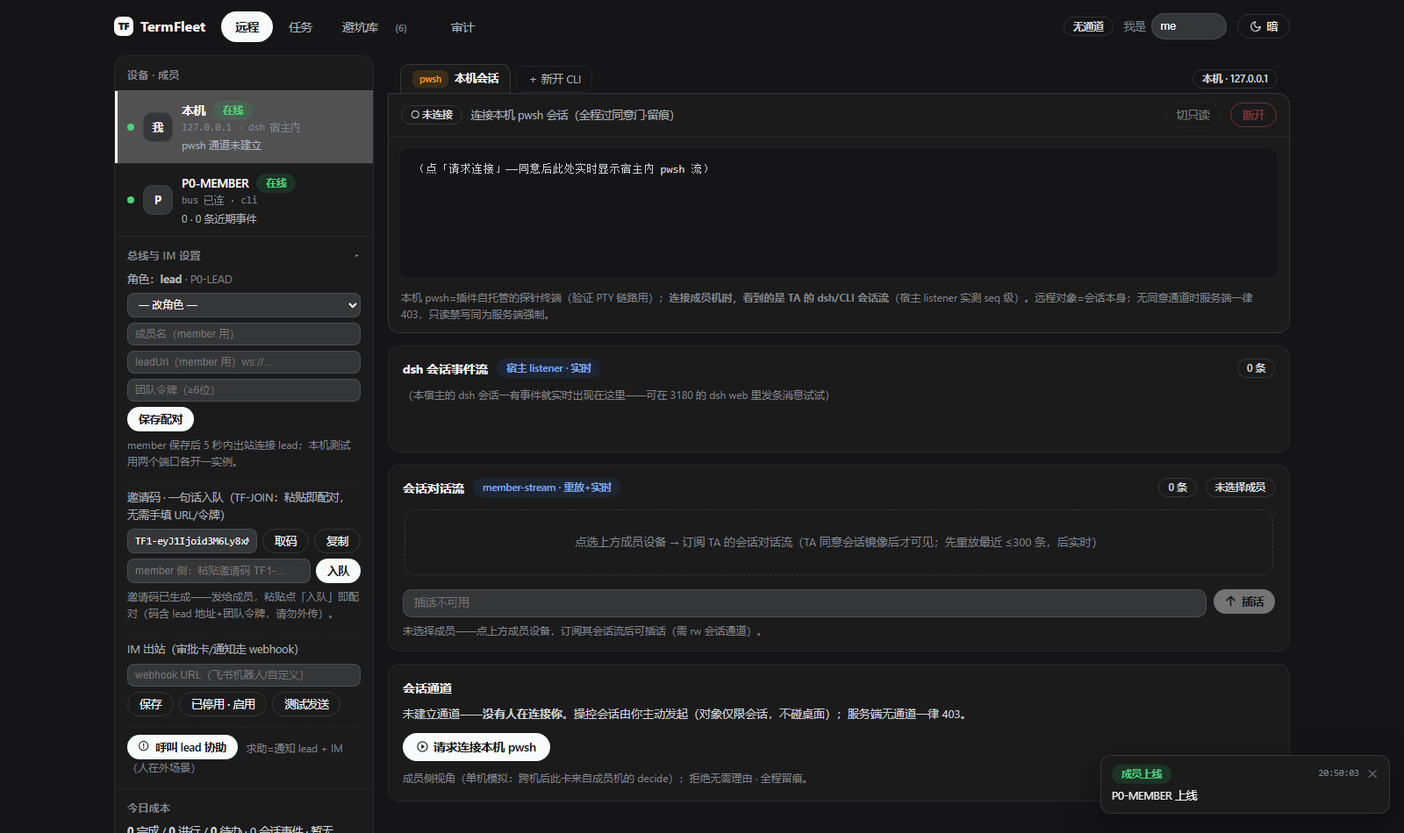
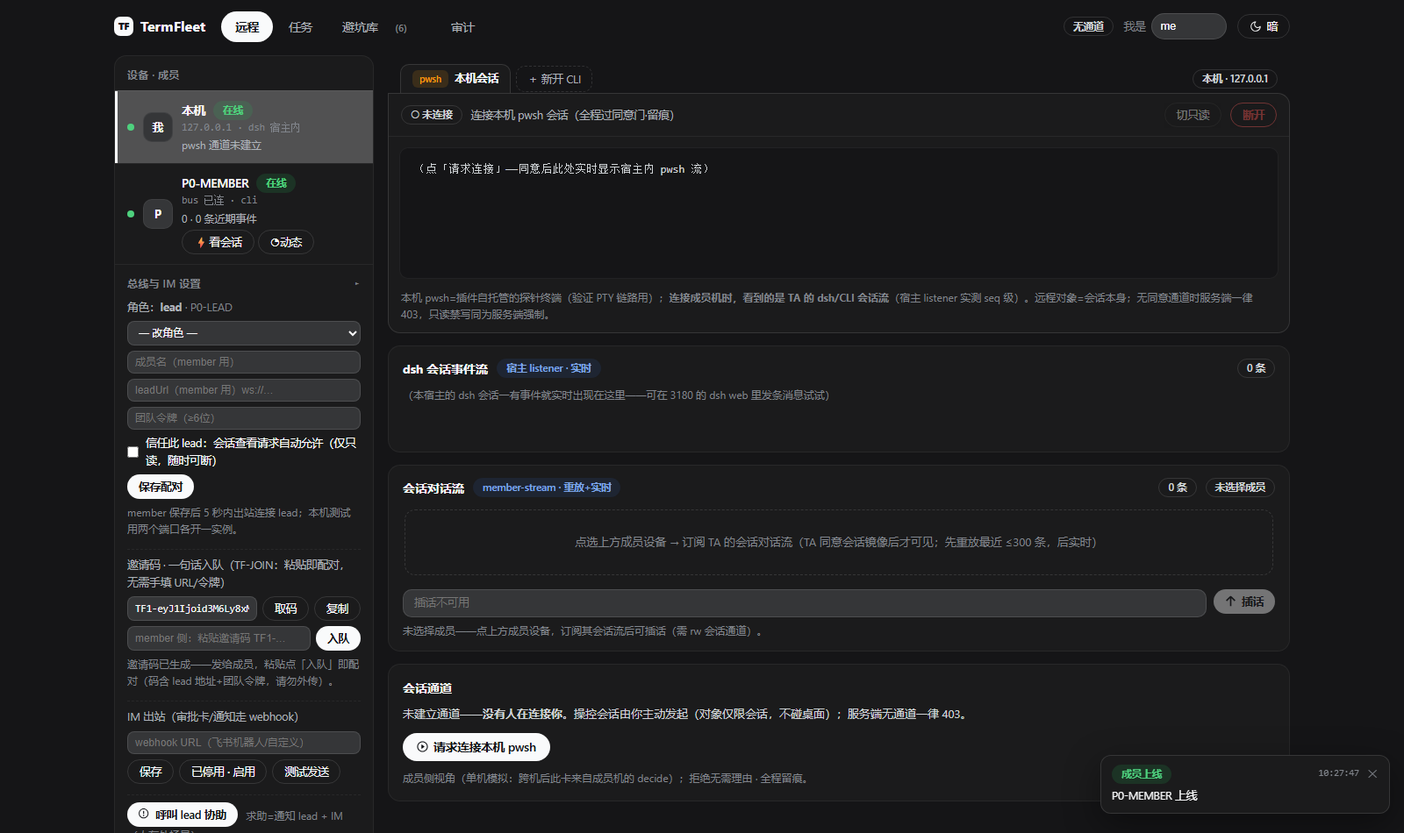
P1#6 快捷操作面落地(契约I)+P1收官: 信任快捷通道=成员面板信任开关(pairing.json持久化,仅只读自动允许随时可断)+lead成员卡⚡看会话一键请求(auto=ro随consent落库透传)+成员侧三重门(auto=ro×信任开×仅sess)自动decide+审计留痕+IM告知; 安全边界=auto只认ro/仅sess/rw接管永远手动点头; 一键动态=fleet?r=深度参数+成员卡◔动态弹层(近20条事件/状态/推送); 独立复审4条全处置(F1中:requestRemote白名单丢auto致成员面板死代码→落库+S13回归锁;F2清理空操作;F3 Esc列表;F4 a

Changed region(s): [[0.0938, 0.2747, 0.2812, 1.0], [0.0938, 0.2137, 0.125, 0.2747]]

diff --git a/lib/app.html b/lib/app.html
@@ -273,6 +273,7 @@ body[data-light] .term{background:var(--n1000)}
           <input id="pairName2" placeholder="成员名（member 用）" style="background:var(--card2);border:1px solid var(--border2);border-radius:8px;color:var(--label1);padding:5px 8px;font-size:12px">
           <input id="pairUrl" placeholder="leadUrl（member 用）ws://…" style="background:var(--card2);border:1px solid var(--border2);border-radius:8px;color:var(--label1);padding:5px 8px;font-size:12px">
           <input id="pairTok" placeholder="团队令牌（≥6位）" style="background:var(--card2);border:1px solid var(--border2);border-radius:8px;color:var(--label1);padding:5px 8px;font-size:12px">
+          <label style="display:flex;gap:8px;align-items:center"><input type="checkbox" id="trustTgl" style="width:auto"> 信任此 lead：会话查看请求自动允许（仅只读，随时可断）</label>
           <button class="btn sm" id="pairSave" style="justify-self:start">保存配对</button>
           <div class="note" style="margin:0">member 保存后 5 秒内出站连接 lead；本机测试用两个端口各开一实例。</div>
           <div style="border-top:1px dashed var(--border);margin-top:8px;padding-top:8px;display:grid;gap:6px">
@@ -492,6 +493,13 @@ body[data-light] .term{background:var(--n1000)}
   <div class="acts"><button class="btn ghost" onclick="document.getElementById('replayMask').classList.remove('on')">关闭</button></div>
 </div></div>
 
+<!-- 最近动态（一键查看成员近期会话事件） -->
+<div class="mask" id="recentMask"><div class="modal">
+  <h4 id="recentTitle">最近动态</h4>
+  <div id="recentBody" style="max-height:420px;overflow-y:auto"></div>
+  <div class="acts"><button class="btn ghost" onclick="document.getElementById('recentMask').classList.remove('on')">关闭</button></div>
+</div></div>
+
 <!-- 新建任务 -->
 <div class="mask" id="formMask"><div class="modal">
   <h4>新建任务</h4>
@@ -665,10 +673,12 @@ function pollFleet(){
     var box=document.getElementById('memberDevs');
     if(!FLEET.members.length){ box.innerHTML='<div class="dev" style="opacity:.5"><span class="dot off"></span><div class="av">?</div><div><div class="nm">团队成员设备</div><div class="sessn">暂无成员在线（member 配对后 5s 内出现）</div></div></div>'; return; }
     box.innerHTML=FLEET.members.map(function(m){
-      return '<div class="dev '+(selMember===m.name?'sel':'')+'" data-member="'+esc(m.name)+'"><span class="dot on"></span><div class="av">'+esc(m.name.slice(0,1))+'</div><div style="min-width:0"><div class="nm">'+esc(m.name)+' <span class="pill g" style="margin-left:2px">在线</span></div><div class="mach" style="font-family:SF Mono,Consolas,monospace;font-size:11.5px;color:var(--caption)">bus 已连 · '+esc((m.sessions||[]).map(function(s){return s.tag}).join(','))+'</div><div class="sessn">'+(m.recentEvents||[]).length+(m.summary?(' · <b style="color:var(--label2)">'+m.summary.state+'</b> '+esc((m.summary.line||'').slice(0,34))):(' · '+(m.recentEvents||[]).length+' 条近期事件'))+(m.lastSos?' <span class="pill r">SOS '+(m.lastSos.msg||'').slice(0,10)+'</span>':'')+(m.lastProgress?' <span class="pill a" title="进度推送 '+esc((m.lastProgress.line||'').slice(0,40))+'">'+esc(m.lastProgress.label||m.lastProgress.kind)+'</span>':'')+'</div></div></div>';
+      return '<div class="dev '+(selMember===m.name?'sel':'')+'" data-member="'+esc(m.name)+'"><span class="dot on"></span><div class="av">'+esc(m.name.slice(0,1))+'</div><div style="min-width:0"><div class="nm">'+esc(m.name)+' <span class="pill g" style="margin-left:2px">在线</span></div><div class="mach" style="font-family:SF Mono,Consolas,monospace;font-size:11.5px;color:var(--caption)">bus 已连 · '+esc((m.sessions||[]).map(function(s){return s.tag}).join(','))+'</div><div class="sessn">'+(m.recentEvents||[]).length+(m.summary?(' · <b style="color:var(--label2)">'+m.summary.state+'</b> '+esc((m.summary.line||'').slice(0,34))):(' · '+(m.recentEvents||[]).length+' 条近期事件'))+(m.lastSos?' <span class="pill r">SOS '+(m.lastSos.msg||'').slice(0,10)+'</span>':'')+(m.lastProgress?' <span class="pill a" title="进度推送 '+esc((m.lastProgress.line||'').slice(0,40))+'">'+esc(m.lastProgress.label||m.lastProgress.kind)+'</span>':'')+'</div><div style="display:flex;gap:4px;margin:4px 0 0;flex:none"><button class="btn ghost sm" data-qview="'+esc(m.name)+'" title="一键请求查看 TA 的会话——TA 开了信任则自动允许（仅只读）">⚡看会话</button><button class="btn ghost sm" data-qrecent="'+esc(m.name)+'" title="看 TA 最近 20 条会话动态">◔动态</button></div></div>';
     }).join('');
     box.querySelectorAll('[data-member]').forEach(function(el){ el.onclick=function(){ selMember=el.getAttribute('data-member');
       document.getElementById('sessMember').style.display='flex'; document.getElementById('sessMemberName').textContent=selMember+' · pwsh'; sfOpen(selMember); pollFleet(); toast('已选中成员机：'+selMember+'（会话对话流订阅中…）'); }; });
+    box.querySelectorAll('[data-qview]').forEach(function(b){ b.onclick=function(ev){ ev.stopPropagation(); qview(b.getAttribute('data-qview')); }; });
+    box.querySelectorAll('[data-qrecent]').forEach(function(b){ b.onclick=function(ev){ ev.stopPropagation(); qrecent(b.getAttribute('data-qrecent')); }; });
     // 远端通道 active：拉成员 pty 尾流显示
     if(CH && CH.status==='active' && CH.target && CH.target.indexOf('member:')===0){
       var m2=FLEET.members.filter(function(x){return x.name===CH.target.slice(7)})[0];
@@ -678,7 +688,8 @@ function pollFleet(){
     }
   }).catch(function(){});
   api('/dsh-termfleet/pairing').then(function(d){ FLEET.role=d.pairing&&d.pairing.role||'?'; FLEET.name=d.pairing&&d.pairing.name||'';
-    document.getElementById('pairRole').textContent=FLEET.role; document.getElementById('pairName').textContent=FLEET.name?('· '+FLEET.name):''; }).catch(function(){});
+    document.getElementById('pairRole').textContent=FLEET.role; document.getElementById('pairName').textContent=FLEET.name?('· '+FLEET.name):'';
+    var tt=document.getElementById('trustTgl'); if(tt) tt.checked=!!(d.pairing&&d.pairing.trust); }).catch(function(){});
   // pending 轮询：远端成员答复 / 成员页收到 lead 请求 → 采纳
   if(CH && CH.status==='pending'){
     api('/dsh-termfleet/consent/list').then(function(d){
@@ -688,8 +699,9 @@ function pollFleet(){
     }).catch(function(){});
   } else if(!CH && FLEET.role==='member'){
     api('/dsh-termfleet/consent/list').then(function(d){
-      var c=(d.consents||[]).filter(function(x){return x.remote&&x.status==='pending'})[0];
-      if(c){ CH=c; CH._mine=false; renderChannel(); }
+      // 采纳远端 pending；信任自动允许的（active+auto）也采纳并提示（成员零操作闭环的可见性）
+      var c=(d.consents||[]).filter(function(x){return x.remote&&(x.status==='pending'||(x.status==='active'&&x.auto))})[0];
+      if(c){ CH=c; CH._mine=false; renderChannel(); if(c.status==='active'&&c.auto) toast('已按信任设置自动允许（只读）——lead 正在查看，随时可断开'); }
     }).catch(function(){});
   }
   sfGate();
@@ -698,6 +710,29 @@ function requestChannel(){
   var target = selMember ? ('member:'+selMember) : 'pwsh7·本机';
   api('/dsh-termfleet/consent/request',{type:'pty',target:target}).then(function(d){
     if(d.ok){ CH=d.consent; CH._mine=true; renderChannel(); toast('已发起连接请求（入审计）'); }});
+}
+/* 契约 I：快捷操作（愿望机：一键「请求+信任自动允许」/一键最近动态） */
+function qview(name){
+  api('/dsh-termfleet/consent/request',{type:'sess',target:'member:'+name,auto:'ro'}).then(function(d){
+    if(d.ok){ CH=d.consent; CH._mine=true; renderChannel();
+      toast('已一键发起查看——'+name+' 开了信任会自动允许（只读），否则等 TA 确认'); }
+    else toast('请求失败：'+((d&&d.error)||'?'));
+  });
+}
+function qrecent(name){
+  api('/dsh-termfleet/fleet?r=20').then(function(d){
+    var m=(d.members||[]).filter(function(x){return x.name===name})[0];
+    if(!m){ toast(name+' 不在线'); return; }
+    document.getElementById('recentTitle').textContent=name+' · 最近动态';
+    var st=m.summary?('状态 <b>'+esc(m.summary.state)+'</b> · '+esc(m.summary.line||'')):'暂无状态';
+    var body='<div class="note" style="margin-bottom:8px">'+st+(m.lastProgress?(' · 最近推送 <b>'+esc(m.lastProgress.label||m.lastProgress.kind)+'</b>'):(''))+(m.lastFollowupAck&&m.lastFollowupAck.ok?' · 插话已送达':'')+'</div>'
+      +'<div style="max-height:360px;overflow-y:auto">'
+      +((m.recentEvents||[]).length?m.recentEvents.slice().reverse().map(function(e){
+          return '<div class="evrow"><span class="ts">'+(e.ts?new Date(e.ts).toLocaleTimeString():'')+'</span><span class="ty mono">'+esc(e.type||'?')+'</span><span>'+esc(String(e.text||e.brief||'').slice(0,80))+'</span></div>';
+        }).join(''):'<div class="ph">暂无近期事件</div>')+'</div>';
+    document.getElementById('recentBody').innerHTML=body;
+    document.getElementById('recentMask').classList.add('on');
+  }).catch(function(){ toast('拉取失败'); });
 }
 function decide(dec){
   // 先取「是否 lead 侧发起」——服务端回包会整体替换 CH，本地 _mine 标记必须捕获后回填
@@ -1343,6 +1378,7 @@ document.getElementById('pairSave').onclick=function(){
   var n=document.getElementById('pairName2').value.trim(); if(n)body.name=n;
   var u=document.getElementById('pairUrl').value.trim(); if(u)body.leadUrl=u;
   var t=document.getElementById('pairTok').value.trim(); if(t)body.token=t;
+  body.trust=document.getElementById('trustTgl').checked; // 信任开关总是随保存提交（取消勾选=关闭信任）
   if(!Object.keys(body).length){ toast('未填任何项'); return; }
   api('/dsh-termfleet/pairing',body).then(function(d){ if(d.ok){ toast('配对已保存：'+d.pairing.role+(d.pairing.name?' · '+d.pairing.name:'')+'（member 5s 内连上）'); pollFleet(); } });
 };
@@ -1411,7 +1447,7 @@ api('/dsh-termfleet/consent/list').then(function(d){ var c=(d.consents||[]).find
 // 键盘快捷键：Esc=关弹窗/抽屉, 1-4=切导航, /=聚焦搜索
 document.addEventListener('keydown', function(ev) {
   if (ev.key === 'Escape') {
-    ['replayMask','formMask','lessonMask','consentMask'].forEach(function(id) { document.getElementById(id).classList.remove('on') });
+    ['replayMask','formMask','lessonMask','consentMask','recentMask'].forEach(function(id) { document.getElementById(id).classList.remove('on') });
     closeDrawer();
     document.getElementById('statMenu').classList.remove('on');
   }

diff --git a/lib/index.js b/lib/index.js
@@ -523,13 +523,15 @@ export function apply(ctx, _config) {
       async requestRemote(c) {
         const l = await ensure()
         const exist = l.find((x) => x.id === c.id)
-        if (exist) { if (exist.status === 'pending') { exist.remote = true; save() } return exist }
-        const n = { id: c.id, type: c.type, target: c.target, requester: c.requester, mode: null, status: 'pending', createdAt: Date.now(), expireAt: null, decidedBy: null, endedBy: null, remote: true }
+        if (exist) { if (exist.status === 'pending') { exist.remote = true; if (c.auto) exist.auto = c.auto; save() } return exist }
+        // auto 随记录落库（契约 I：成员面板靠它渲染信任自动允许的「随时可断」卡与提示）
+        const n = { id: c.id, type: c.type, target: c.target, requester: c.requester, mode: null, status: 'pending', createdAt: Date.now(), expireAt: null, decidedBy: null, endedBy: null, remote: true, auto: c.auto || undefined }
         l.unshift(n); save(); return n
       },
-      async request(type, target, requester) {
+      async request(type, target, requester, extra) {
         const l = await ensure()
-        const c = { id: 'C-' + Date.now().toString(36) + Math.random().toString(36).slice(2, 5), type, target, requester, mode: null, status: 'pending', createdAt: Date.now(), expireAt: null, decidedBy: null, endedBy: null }
+        // extra（如 auto）随创建落库——路由层事后改内存对象会在重启后丢失标记
+        const c = { id: 'C-' + Date.now().toString(36) + Math.random().toString(36).slice(2, 5), type, target, requester, mode: null, status: 'pending', createdAt: Date.now(), expireAt: null, decidedBy: null, endedBy: null, ...(extra && typeof extra === 'object' ? extra : {}) }
         l.unshift(c); save(); return c
       },
       async decide(id, decision, decider) {
@@ -735,12 +737,13 @@ export function apply(ctx, _config) {
       }
       lead.wss.handleUpgrade(req, socket, head, (ws) => lead.wss.emit('connection', ws))
     }
-    const leadFleet = async () => {
+    const leadFleet = async (rN) => {
       await loadCfg()
+      const rMax = Math.min(50, Math.max(1, parseInt(rN, 10) || 8))
       const out = []
       for (const [name, c] of lead.conns) {
         out.push({ name, online: true, lastSeen: c.lastSeen, sessions: c.sessions, msgCount: c.msgCount || 0, lastSos: c.lastSos || null, summary: c.summary || null, lastProgress: c.lastProgress || null,
-          recentEvents: c.events.slice(-8), ptyTail: c.ptyOut.slice(-30).map((x) => x.d).join('').slice(-600), lastFollowupAck: c.lastFollowupAck || null })
+          recentEvents: c.events.slice(-rMax), ptyTail: c.ptyOut.slice(-30).map((x) => x.d).join('').slice(-600), lastFollowupAck: c.lastFollowupAck || null })
       }
       return out
     }
@@ -786,10 +789,21 @@ export function apply(ctx, _config) {
             let m = null; try { m = JSON.parse(String(raw)) } catch { return }
             if (m.t === 'consent-request') {
               // lead 下发的请求 → 本机建 pending（同 id）；本机页面轮询即可见+可答复
-              consentStore.requestRemote(m.consent).then(() => {
+              // 契约 I：信任快捷通道——成员开了信任(cfg.trust)且请求带 auto='ro'（仅 sess）→ 自动允许只读，免手动确认
+              void (async () => {
+                await consentStore.requestRemote(m.consent)
                 auditStore.add(m.consent.requester, '请求连接（来自 lead）', m.consent.target || '')
+                if (m.consent.auto === 'ro' && cfg.trust === true && m.consent.type === 'sess') {
+                  const c2 = await consentStore.decide(m.consent.id, 'readonly', (cfg.name || '成员') + '@成员机·信任自动')
+                  if (c2) {
+                    auditStore.add(cfg.name || '成员', '信任模式自动允许(只读)', m.consent.id + '（随时可断开）')
+                    imBridge.send('TermFleet 信任通道', 'lead 的会话查看请求已按信任设置自动允许（仅只读，随时可断开）')
+                    if (member.connected && member.ws) send(member.ws, { t: 'consent-decided', id: m.consent.id, decision: 'readonly' })
+                    return
+                  }
+                }
                 imBridge.send('TermFleet 审批卡', m.consent.requester + ' 请求连接你的会话（' + (m.consent.target || '') + '，30 分钟限时）。id=' + m.consent.id + '。答复：回复\"允许/只读/拒绝\"（经 IM 桥回调），或打开成员页 ' + (imBridge.cfg && imBridge.cfg.pageUrl ? imBridge.cfg.pageUrl : 'http://127.0.0.1:3181/dsh-termfleet/app'))
-              })
+              })().catch(() => { /* 单帧失败不拖垮总线 */ })
             } else if (m.t === 'pty-open' || m.t === 'pty-write' || m.t === 'pty-kill') {
               // 双端验证：成员机只在本机存在 active 远端 rw 通道时执行
               const ch = await consentStore.activeOf('pty')
@@ -1424,7 +1438,8 @@ ctx.inject(['webServer'], (host) => {
           handler: async (req, res) => {
             if (guard(req, res)) return
             if (req.method !== 'GET') { res.writeHead(405, { allow: 'GET' }); res.end(); return }
-            json(res, 200, { ok: true, members: await busLink.leadFleet() })
+            const u = new URL(req.url, 'http://localhost')
+            json(res, 200, { ok: true, members: await busLink.leadFleet(u.searchParams.get('r')) })
           },
         }),
         host.webServer.register({
@@ -1442,6 +1457,8 @@ ctx.inject(['webServer'], (host) => {
               if (typeof body.name === 'string') cfg.name = body.name.slice(0, 30)
               if (typeof body.leadUrl === 'string') cfg.leadUrl = body.leadUrl.slice(0, 200)
               if (typeof body.token === 'string' && body.token.length >= 6) cfg.token = body.token.slice(0, 64)
+              // 契约 I：信任开关——开启后 lead 的会话查看请求（auto='ro'）自动允许（仅只读），成员随时可断
+              if (typeof body.trust === 'boolean') cfg.trust = body.trust
               busLink.saveCfg()
               auditStore.add(who(req), '配对设置', cfg.role + (cfg.name ? ' ' + cfg.name : ''))
               json(res, 200, { ok: true, pairing: cfg })
@@ -1763,10 +1780,11 @@ ctx.inject(['webServer'], (host) => {
             try {
               const body = JSON.parse((await readBody(req)) || '{}')
               const target = String(body.target || '')
-              const c = await consentStore.request(String(body.type || 'pty'), target, who(req))
-              auditStore.add(who(req), '请求连接', c.type + ' → ' + c.target)
-              if (target.startsWith('member:')) busLink.toMember(target.slice(7), { t: 'consent-request', consent: c })
-              emitNotify('consent-request', who(req) + ' 请求连接 ' + c.type + ' → ' + c.target)
+              // 契约 I：信任快捷通道——auto='ro' 表示请求带「信任自动允许」意愿；是否真的免确认由成员侧信任开关决定
+              const c = await consentStore.request(String(body.type || 'pty'), target, who(req), body.auto === 'ro' ? { auto: 'ro' } : null)
+              auditStore.add(who(req), '请求连接', c.type + ' → ' + c.target + (c.auto ? '（一键·信任自动）' : ''))
+              if (target.startsWith('member:')) busLink.toMember(target.slice(7), { t: 'consent-request', consent: { ...c, auto: c.auto || undefined } })
+              emitNotify('consent-request', who(req) + ' 请求连接 ' + c.type + ' → ' + c.target + (c.auto ? '（一键）' : ''))
               json(res, 200, { ok: true, consent: c })
             } catch (e) { json(res, 400, { ok: false, error: String(e).slice(0, 300) }) }
           },

diff --git a/src/index.ts b/src/index.ts
@@ -534,13 +534,15 @@ export function apply(ctx, _config) {
       async requestRemote(c) {
         const l = await ensure()
         const exist = l.find((x) => x.id === c.id)
-        if (exist) { if (exist.status === 'pending') { exist.remote = true; save() } return exist }
-        const n = { id: c.id, type: c.type, target: c.target, requester: c.requester, mode: null, status: 'pending', createdAt: Date.now(), expireAt: null, decidedBy: null, endedBy: null, remote: true }
+        if (exist) { if (exist.status === 'pending') { exist.remote = true; if (c.auto) exist.auto = c.auto; save() } return exist }
+        // auto 随记录落库（契约 I：成员面板靠它渲染信任自动允许的「随时可断」卡与提示）
+        const n = { id: c.id, type: c.type, target: c.target, requester: c.requester, mode: null, status: 'pending', createdAt: Date.now(), expireAt: null, decidedBy: null, endedBy: null, remote: true, auto: c.auto || undefined }
         l.unshift(n); save(); return n
       },
-      async request(type, target, requester) {
+      async request(type, target, requester, extra) {
         const l = await ensure()
-        const c = { id: 'C-' + Date.now().toString(36) + Math.random().toString(36).slice(2, 5), type, target, requester, mode: null, status: 'pending', createdAt: Date.now(), expireAt: null, decidedBy: null, endedBy: null }
+        // extra（如 auto）随创建落库——路由层事后改内存对象会在重启后丢失标记
+        const c = { id: 'C-' + Date.now().toString(36) + Math.random().toString(36).slice(2, 5), type, target, requester, mode: null, status: 'pending', createdAt: Date.now(), expireAt: null, decidedBy: null, endedBy: null, ...(extra && typeof extra === 'object' ? extra : {}) }
         l.unshift(c); save(); return c
       },
       async decide(id, decision, decider) {
@@ -746,12 +748,13 @@ export function apply(ctx, _config) {
       }
       lead.wss.handleUpgrade(req, socket, head, (ws) => lead.wss.emit('connection', ws))
     }
-    const leadFleet = async () => {
+    const leadFleet = async (rN) => {
       await loadCfg()
+      const rMax = Math.min(50, Math.max(1, parseInt(rN, 10) || 8))
       const out = []
       for (const [name, c] of lead.conns) {
         out.push({ name, online: true, lastSeen: c.lastSeen, sessions: c.sessions, msgCount: c.msgCount || 0, lastSos: c.lastSos || null, summary: c.summary || null, lastProgress: c.lastProgress || null,
-          recentEvents: c.events.slice(-8), ptyTail: c.ptyOut.slice(-30).map((x) => x.d).join('').slice(-600), lastFollowupAck: c.lastFollowupAck || null })
+          recentEvents: c.events.slice(-rMax), ptyTail: c.ptyOut.slice(-30).map((x) => x.d).join('').slice(-600), lastFollowupAck: c.lastFollowupAck || null })
       }
       return out
     }
@@ -797,10 +800,21 @@ export function apply(ctx, _config) {
             let m = null; try { m = JSON.parse(String(raw)) } catch { return }
             if (m.t === 'consent-request') {
               // lead 下发的请求 → 本机建 pending（同 id）；本机页面轮询即可见+可答复
-              consentStore.requestRemote(m.consent).then(() => {
+              // 契约 I：信任快捷通道——成员开了信任(cfg.trust)且请求带 auto='ro'（仅 sess）→ 自动允许只读，免手动确认
+              void (async () => {
+                await consentStore.requestRemote(m.consent)
                 auditStore.add(m.consent.requester, '请求连接（来自 lead）', m.consent.target || '')
+                if (m.consent.auto === 'ro' && cfg.trust === true && m.consent.type === 'sess') {
+                  const c2 = await consentStore.decide(m.consent.id, 'readonly', (cfg.name || '成员') + '@成员机·信任自动')
+                  if (c2) {
+                    auditStore.add(cfg.name || '成员', '信任模式自动允许(只读)', m.consent.id + '（随时可断开）')
+                    imBridge.send('TermFleet 信任通道', 'lead 的会话查看请求已按信任设置自动允许（仅只读，随时可断开）')
+                    if (member.connected && member.ws) send(member.ws, { t: 'consent-decided', id: m.consent.id, decision: 'readonly' })
+                    return
+                  }
+                }
                 imBridge.send('TermFleet 审批卡', m.consent.requester + ' 请求连接你的会话（' + (m.consent.target || '') + '，30 分钟限时）。id=' + m.consent.id + '。答复：回复\"允许/只读/拒绝\"（经 IM 桥回调），或打开成员页 ' + (imBridge.cfg && imBridge.cfg.pageUrl ? imBridge.cfg.pageUrl : 'http://127.0.0.1:3181/dsh-termfleet/app'))
-              })
+              })().catch(() => { /* 单帧失败不拖垮总线 */ })
             } else if (m.t === 'pty-open' || m.t === 'pty-write' || m.t === 'pty-kill') {
               // 双端验证：成员机只在本机存在 active 远端 rw 通道时执行
               const ch = await consentStore.activeOf('pty')
@@ -1435,7 +1449,8 @@ ctx.inject(['webServer'], (host) => {
           handler: async (req, res) => {
             if (guard(req, res)) return
             if (req.method !== 'GET') { res.writeHead(405, { allow: 'GET' }); res.end(); return }
-            json(res, 200, { ok: true, members: await busLink.leadFleet() })
+            const u = new URL(req.url, 'http://localhost')
+            json(res, 200, { ok: true, members: await busLink.leadFleet(u.searchParams.get('r')) })
           },
         }),
         host.webServer.register({
@@ -1453,6 +1468,8 @@ ctx.inject(['webServer'], (host) => {
               if (typeof body.name === 'string') cfg.name = body.name.slice(0, 30)
               if (typeof body.leadUrl === 'string') cfg.leadUrl = body.leadUrl.slice(0, 200)
               if (typeof body.token === 'string' && body.token.length >= 6) cfg.token = body.token.slice(0, 64)
+              // 契约 I：信任开关——开启后 lead 的会话查看请求（auto='ro'）自动允许（仅只读），成员随时可断
+              if (typeof body.trust === 'boolean') cfg.trust = body.trust
               busLink.saveCfg()
               auditStore.add(who(req), '配对设置', cfg.role + (cfg.name ? ' ' + cfg.name : ''))
               json(res, 200, { ok: true, pairing: cfg })
@@ -1774,10 +1791,11 @@ ctx.inject(['webServer'], (host) => {
             try {
               const body = JSON.parse((await readBody(req)) || '{}')
               const target = String(body.target || '')
-              const c = await consentStore.request(String(body.type || 'pty'), target, who(req))
-              auditStore.add(who(req), '请求连接', c.type + ' → ' + c.target)
-              if (target.startsWith('member:')) busLink.toMember(target.slice(7), { t: 'consent-request', consent: c })
-              emitNotify('consent-request', who(req) + ' 请求连接 ' + c.type + ' → ' + c.target)
+              // 契约 I：信任快捷通道——auto='ro' 表示请求带「信任自动允许」意愿；是否真的免确认由成员侧信任开关决定
+              const c = await consentStore.request(String(body.type || 'pty'), target, who(req), body.auto === 'ro' ? { auto: 'ro' } : null)
+              auditStore.add(who(req), '请求连接', c.type + ' → ' + c.target + (c.auto ? '（一键·信任自动）' : ''))
+              if (target.startsWith('member:')) busLink.toMember(target.slice(7), { t: 'consent-request', consent: { ...c, auto: c.auto || undefined } })
+              emitNotify('consent-request', who(req) + ' 请求连接 ' + c.type + ' → ' + c.target + (c.auto ? '（一键）' : ''))
               json(res, 200, { ok: true, consent: c })
             } catch (e) { json(res, 400, { ok: false, error: String(e).slice(0, 300) }) }
           },

diff --git a/docs/audit/P1-ACCEPTANCE.md b/docs/audit/P1-ACCEPTANCE.md
@@ -71,3 +71,35 @@
 - IM 实发：E2E 无 webhook，只验 lead 转发路径（busy 抑制分支同源），实发留真实环境。
 - 「完成」事件：现 stuck/waiting 二态启发式，可靠 turn 终态信号待后续（调研：生态共识推「审批+完成」，完成信号是缺口）。
 - waiting-input 漏报粒度：3s tick 内被快速批准的审批不推送（零误报类漏报可接受）。
+
+═══════════════════════════════════════════
+
+# P1 #6 快捷操作面 验收记录（2026-10-09，P1 收官）
+
+> 复跑命令：`node scripts/verify-p0.mjs`（14 场景）。本轮 **14/14 全绿（exit 0）首跑即过**，复审修复后复跑仍全绿。
+
+## 本轮交付（契约 I，详见 docs/lib/decisions.md）
+
+- **信任快捷通道**：成员面板开关「信任此 lead：会话查看请求自动允许（仅只读，随时可断）」（pairing.json 持久化）；lead 成员卡「⚡看会话」一键请求（auto=ro 随 consent 落库+透传）；成员侧三重门（auto=ro × 信任开 × 仅 sess）自动允许只读，审计「信任模式自动允许(只读)」+ IM 告知 + 面板提示「随时可断开」；安全边界=auto 只认 ro/仅 sess/最大半径只读 30min/**rw 接管永远要成员手动点头**。
+- **一键动态**：fleet `?r=` 深度参数（1-50 钳制）+ 成员卡「◔动态」弹层（状态/最近推送/近 20 条会话事件/插话送达）。
+
+## 场景结果（S13/S14 本轮新增）
+
+| # | 场景 | 结果 | 关键证据（实测值） |
+|---|---|---|---|
+| S13 | 信任快捷通道（正反两半） | ✅ PASS | 开信任→一键请求→lead 侧 active ro（auto=ro 透传+成员侧记录落库回归锁 auto=ro/active），成员审计「信任模式自动允许(只读)」；关信任→同样请求 4.5s 后仍 pending（信任门闸成立） |
+| S14 | 一键动态数据面 | ✅ PASS | fleet?r=20 → recentEvents 17 条（默认路由 8 条），含 S3 插话回显=true |
+
+## 独立复审（换人冷启动）处置
+
+- **修（F1 中）**：requestRemote 字段白名单丢 auto——成员侧记录永不带 auto，面板「随时可断」卡与信任提示成死代码；修=requestRemote/request 均落库 auto + S13 加成员侧 auto 落库回归锁。
+- 修（F2 低）：S13 清理原用 /consent/end 对 pending 是空操作（end 只收 active）→ 改双端显式 deny 收口，证据措辞同步纠正。
+- 修（F3 低）：recentMask 纳入 Esc 关闭列表。
+- 修（F4 低）：auto 落库滞后（路由事后改内存、重启丢失）→ auto 并入 request() 创建时落库。
+- 确认无问题：rw 伪造不可能（只认 ro+仅 sess+硬编码 readonly decide）、trust 持久化语义、stopPropagation/token 传递/leadFleet 钳制、S13/S14 断言真实、三产物一致。
+
+## 边界与未覆盖
+
+- 成员自动路径 decide 返回 null 的极窄竞态会落穿补发审批卡 IM（需 lead 请求与成员手动答复几乎同时，无实害）。
+- pending consent 无过期（prune 只清 active）——挂起请求永久留存，后续可加 TTL。
+- 面板「⚡/◔」按钮的浏览器级点击测试未做（API 直证+纯渲染弹层），留真双机验收顺带覆盖。

diff --git a/docs/lib/decisions.md b/docs/lib/decisions.md
@@ -130,3 +130,7 @@ Host 头回落（优先级第三）在跨机经 lan-forwarder 时不可达——
 ## 2026-10-09 · E2E 测试教训：S12 频控断言的四轮演进（flake 猎杀实录）
 
 断言"具体帧数/顺序"在（探针 agentLoop 异步补发 turn 事件 × 3s tick 相位 × 12s 冷却网格边界）三因素下必然 flake——四轮实测出现四种不同合法时序。终版断言=**确定性不变量**：working/stuck 各 ≥1（管道通）+ 同类相邻帧间隔 ≥11.5s（冷却下限，留 0.5s 抖动余量）+ lastProgress 与末帧一致；写#2 时机同步到事件（轮询到本轮写后的首次 stuck 推送 ts>t12 再发，消除冷却基线漂移）。教训：**频控类测试断言"不变量"而非"脚本"；环境异步事件源（重试/补发）会移动冷却基线，任何依赖"上次推送发生在何时"的具体帧数断言都不可靠**。诊断工具 scripts/dbg-progress.mjs（双实例+逐帧打印）保留入库。
+
+## 2026-10-09 · 契约 I：快捷操作 = 信任快捷通道（一键请求+自动允许·仅只读）+ 一键最近动态（P1#6 落地，P1 收官）
+
+**信任快捷通道**：成员侧开关 `cfg.trust`（/pairing POST body.trust，pairing.json 持久化，面板勾选「信任此 lead：会话查看请求自动允许（仅只读，随时可断）」）；lead 一键请求 `/consent/request {type:'sess', target, auto:'ro'}` → auto 随 consent 落库（request/requestRemote 均落库——独立复审 F1：requestRemote 白名单丢 auto 会让成员面板「随时可断」卡与提示成死代码）并透传下发帧；成员侧门条件 `consent.auto==='ro' && cfg.trust===true && type==='sess'` 三重成立才自动 decide(readonly)，审计「信任模式自动允许(只读)」+ IM 告知 + consent-decided 回帧；关信任后同样请求停在 pending（E2E 反向半门闸锁）。**安全边界**：auto 只认 'ro'（发 'rw' 被忽略）、仅 sess 类型、最大半径=只读 30min、成员随时可断（active remote consent 的 end 路径闭环）——rw 接管永远要成员手动点头。**一键动态**：fleet `?r=` 深度参数（1-50 默认 8，parseInt 钳制）+ 面板成员卡「◔动态」弹层（状态/最近推送/近 20 条会话事件）。**面板**：成员卡「⚡看会话」「◔动态」按钮 stopPropagation；Esc 关闭列表纳入 recentMask。已知边角（备案）：成员自动路径 decide 返回 null 的极窄竞态会落穿补发审批卡 IM（无实害）；pending 无过期（prune 只清 active）。

diff --git a/docs/NEXT-UPDATES.md b/docs/NEXT-UPDATES.md
@@ -44,8 +44,11 @@
 - **✅ 实测结论**：S12 双实例实测「先推后抑」（小阈值注入：stuck#1 落地 +6s，后续同类迁移被冷却抑制，不变量=同类间隔 ≥12s）；12/12 全绿连续两轮。频控参数依据 docs/RESEARCH-PROGRESS-PUSH.md（生态只推"审批+完成"且头号噪音是重复内容；市场默认推送集=「有东西在等你」）
 - **仍开放**：IM 实发需真实 webhook 环境（E2E 无 webhook 不验实发）；「完成」事件需可靠的 turn 终态信号（现 stuck/waiting 二态启发式）；waiting-input 在 3s tick 粒度（快速批准漏报，零误报类可接受）
 
-### 6. 快捷操作面
-- lead 常用动作一键化：一键"请求+默认允许"（对已信任成员）、一键"看某成员最近会话摘要"
+### 6. 快捷操作面 ✅ 已落地（2026-10-09，E2E 14 场景全绿，P1 收官）
+- **用户时刻**：lead 点成员卡「⚡看会话」→ 成员开了信任的直接自动允许（只读）看到实时对话流，没开的等 TA 一键确认；点「◔动态」→ 弹层看 TA 最近 20 条会话动态+状态，不用进远程页
+- **落地内容（契约 I）**：成员信任开关（/pairing trust，仅只读自动允许，随时可断，审计留痕）+ auto 请求随 consent 落库透传 + fleet ?r= 深度参数 + 成员卡快捷按钮 + Esc 关闭列表
+- **✅ 实测结论**：S13 正反两半（开信任自动允许 +12s 内生效、审计留痕「信任模式自动允许(只读)」、auto 落库回归锁；关信任 4.5s 后仍 pending 门闸成立）；S14 fleet?r=20 深度参数含插话回显。独立复审 4 条全处置（requestRemote 白名单丢 auto=死代码根因）
+- **安全边界**：auto 只认 ro、仅 sess、最大半径=只读 30min、rw 接管永远要成员手动点头
 
 ## P2 —— 体验深化（不急但值得记）
 
